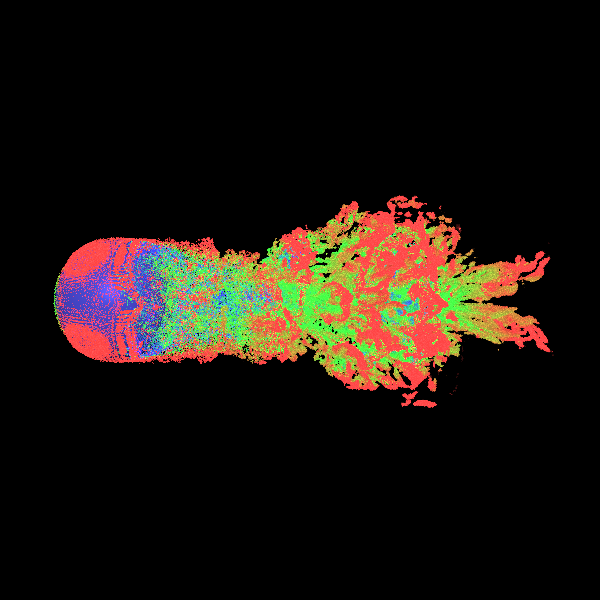
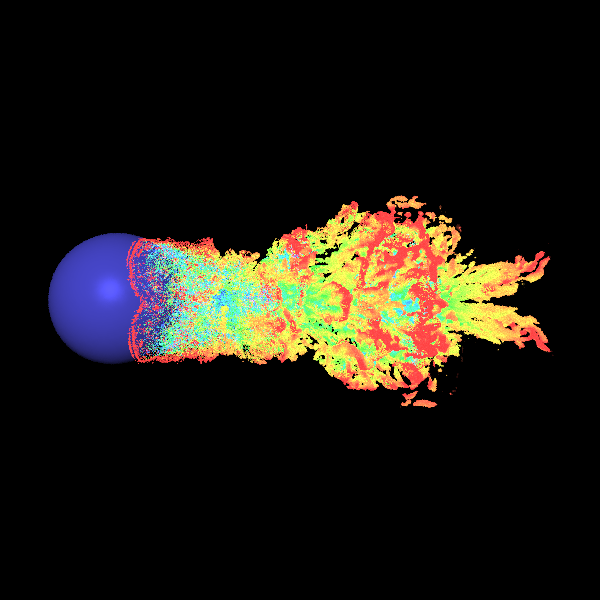
spp

Changed region(s): [[0.06, 0.33, 0.93, 0.69]]

diff --git a/src/main.cpp b/src/main.cpp
@@ -39,6 +39,8 @@ namespace VolumeRendering {
         linear,
         gaussian,
     };
+    float step=0.25;
+    int spp=1;
 
     //
     bool show_demo_window = false;
@@ -46,6 +48,7 @@ namespace VolumeRendering {
     bool write_img = false;
     bool last_filter=false;
     bool filter=false;
+
 
     void LoadingConfig(int argc, char *argv[]) {
         /// load config from json file
@@ -128,7 +131,7 @@ namespace VolumeRendering {
     }
 
     void WriteImg(const std::string &f) {
-        rendered_img->writeImgToFile(f);
+        rendered_img->writeImgToFile("../"+f);
         std::cout << "Image saved to " << f << std::endl;
         write_img = false;
     }
@@ -240,7 +243,7 @@ namespace VolumeRendering {
             if (show_demo_window)
                 ImGui::ShowDemoWindow(&show_demo_window);
 
-            ImGui::Combo("Transfer Function",(int*)&transfer,TransferStr);
+            /*ImGui::Combo("Transfer Function",(int*)&transfer,TransferStr);
             //TODO
             switch (transfer) {
                 case (int)TransferFunc::linear:{
@@ -250,10 +253,14 @@ namespace VolumeRendering {
                     break;
                 }
 
-            }
+            }*/
+            ImGui::SliderFloat("step",&step,0.01f,1.0f);
+            integrator->Setstep_scale(step);
+            ImGui::SliderInt("spp",&spp,1,16);
+            integrator->Setspp(spp);
 
 
-            static char save_path[128] = "../result.png";
+            static char save_path[128] = "result.png";
             ImGui::InputTextWithHint("", "save to:...", save_path, IM_ARRAYSIZE(save_path));
 
             ImGui::SameLine();

diff --git a/include/integrator.h b/include/integrator.h
@@ -42,6 +42,14 @@ public:
         iso_value = value;
     }
 
+    void Setstep_scale(float s) {
+        step_scale = s;
+    }
+
+    void Setspp(int s) {
+        spp = s;
+    }
+
 //    void SetFilter(bool f) {
 //        filter = f;
 //    }
